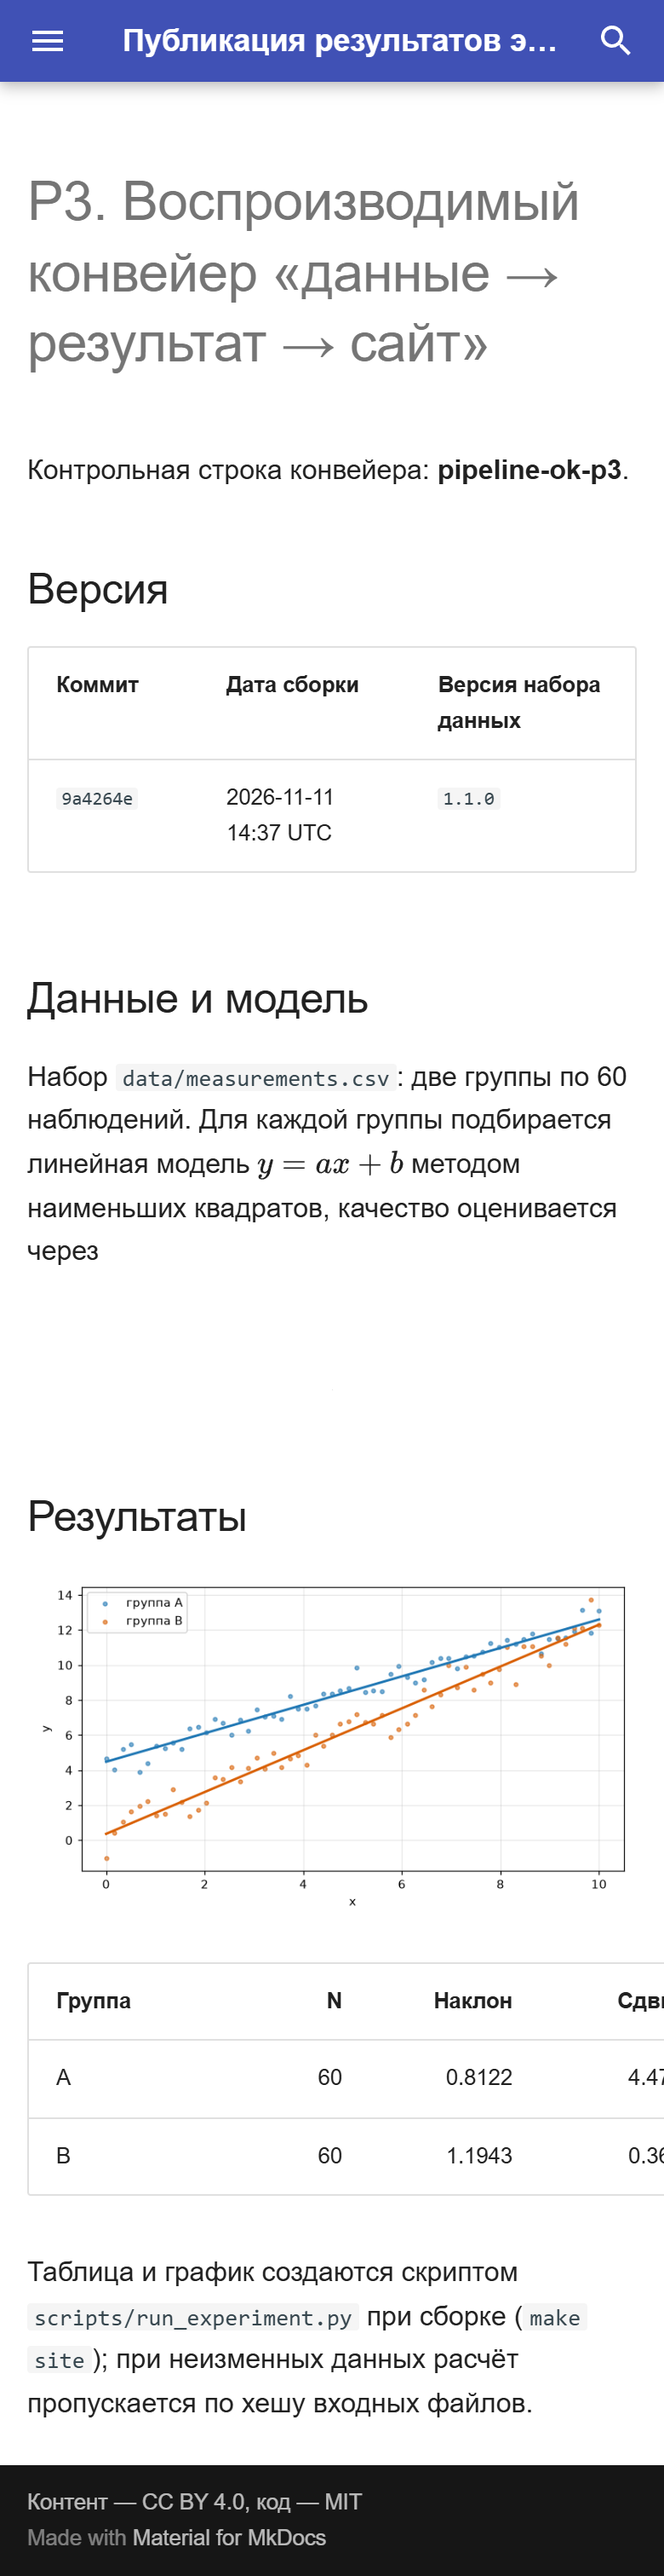
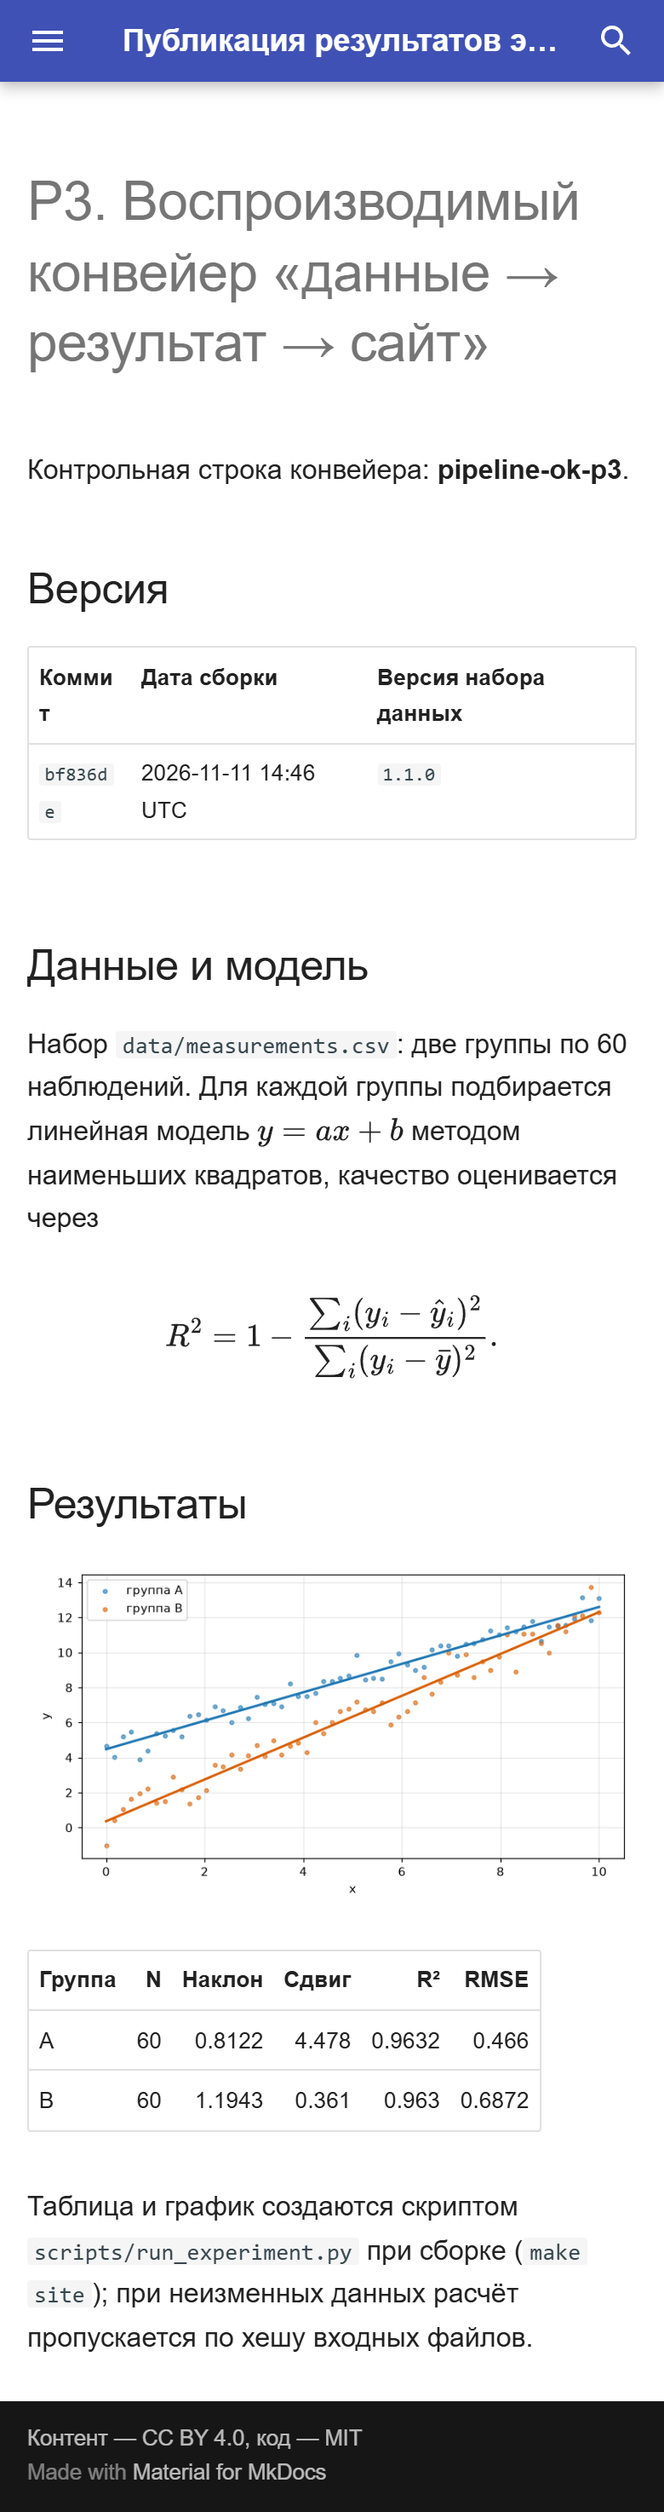
Report: full-size screenshots (mobile emulation, current runs)

diff --git a/docs/report.md b/docs/report.md
@@ -90,17 +90,15 @@ push / PR (любая ветка)
 
 ![Страница P3, мобильный](assets/screens/site-results-mobile.png)
 
-Примечание: headless Chrome не создаёт окно уже ~500 px, поэтому снимок «390 px» обрезан справа; это артефакт съёмки, а не вёрстки (Material адаптивен, меню свёрнуто в «гамбургер»). Полноценную проверку на устройстве/эмуляторе при необходимости нужно повторить.
+Снимок мобильной версии сделан эмуляцией устройства с шириной экрана 390 px (Chrome, Playwright) на всю высоту страницы.
 
-Сайт на Yandex Object Storage и успешный запуск с деплоем на Яндекс:
+Сайт на Yandex Object Storage и успешный запуск пайплайна (lint → build → deploy-yandex и deploy-pages):
 
 ![Сайт на Яндексе](assets/screens/yandex-results-desktop.png)
 
 ![Запуск с deploy-yandex](assets/screens/actions-yandex-success.png)
 
-Успешный запуск (`e7943b2`) и намеренно проваленный (ветка `broken-link`):
-
-![Успешный запуск](assets/screens/actions-success.png)
+Намеренно проваленный запуск (ветка `broken-link`): lint упал, остальные job пропущены.
 
 ![Проваленный запуск](assets/screens/actions-failed.png)
 
